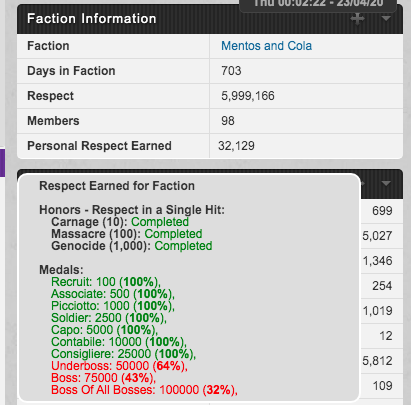
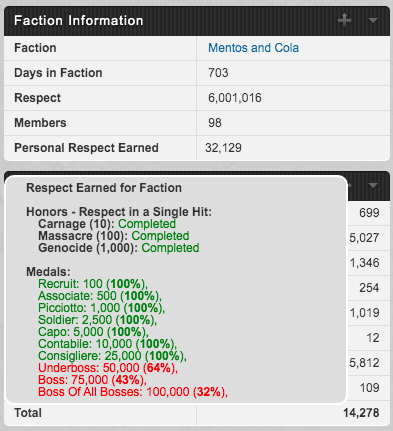
Format with comma separators

Changed region(s): [[0.0, 0.0, 1.0, 1.0]]

diff --git a/FacRespect/Torn Fac Respect Earned.user.js b/FacRespect/Torn Fac Respect Earned.user.js
@@ -79,8 +79,8 @@
     }
 
     function buildMedalText(name, respect, needed) {
-        let text = TAB + ((respect > needed) ? '<font color=green>' + name + ': ' + needed + ' (' + asHtmlPct(respect, needed) + ')' +
-                    ', </font>' : '<font color=red>' + name + ': ' + needed + ' (' + asHtmlPct(respect, needed) + ')' +
+        let text = TAB + ((respect > needed) ? '<font color=green>' + name.toLocaleString() + ': ' + needed.toLocaleString() + ' (' + asHtmlPct(respect, needed) + ')' +
+                    ', </font>' : '<font color=red>' + name.toLocaleString() + ': ' + needed.toLocaleString() + ' (' + asHtmlPct(respect, needed) + ')' +
                     ', </font>') + CRLF;
         return text;
     }
